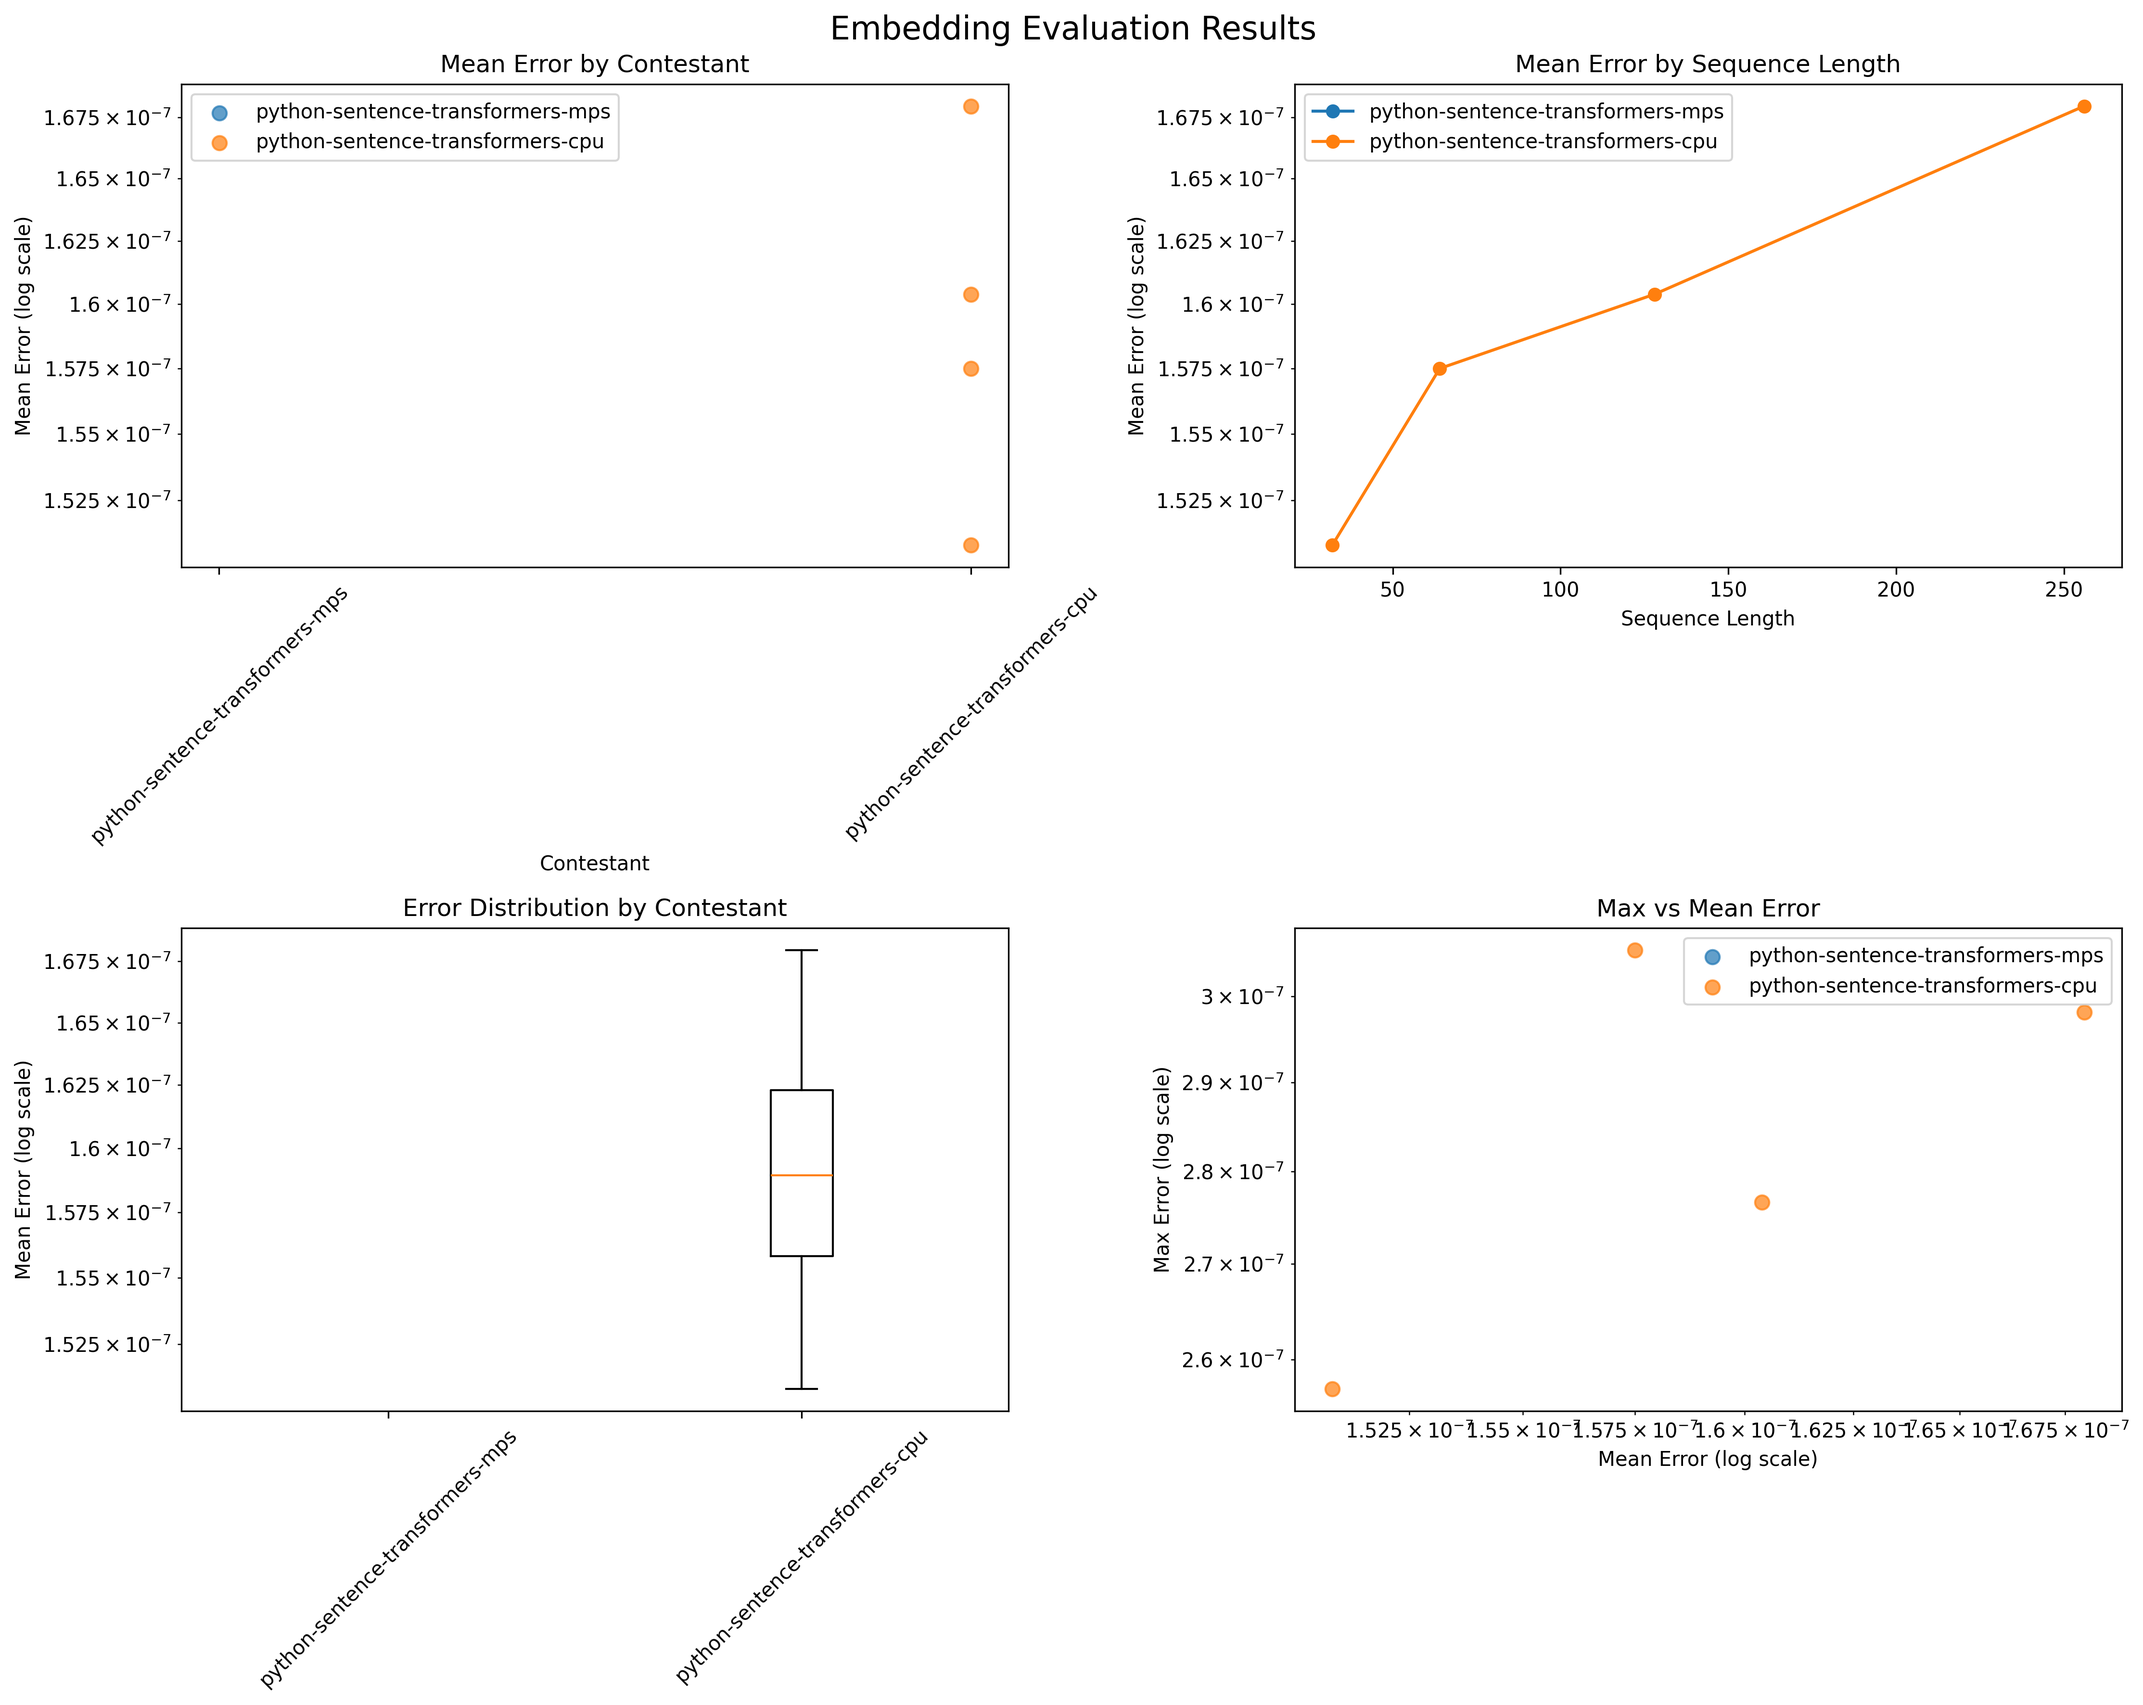
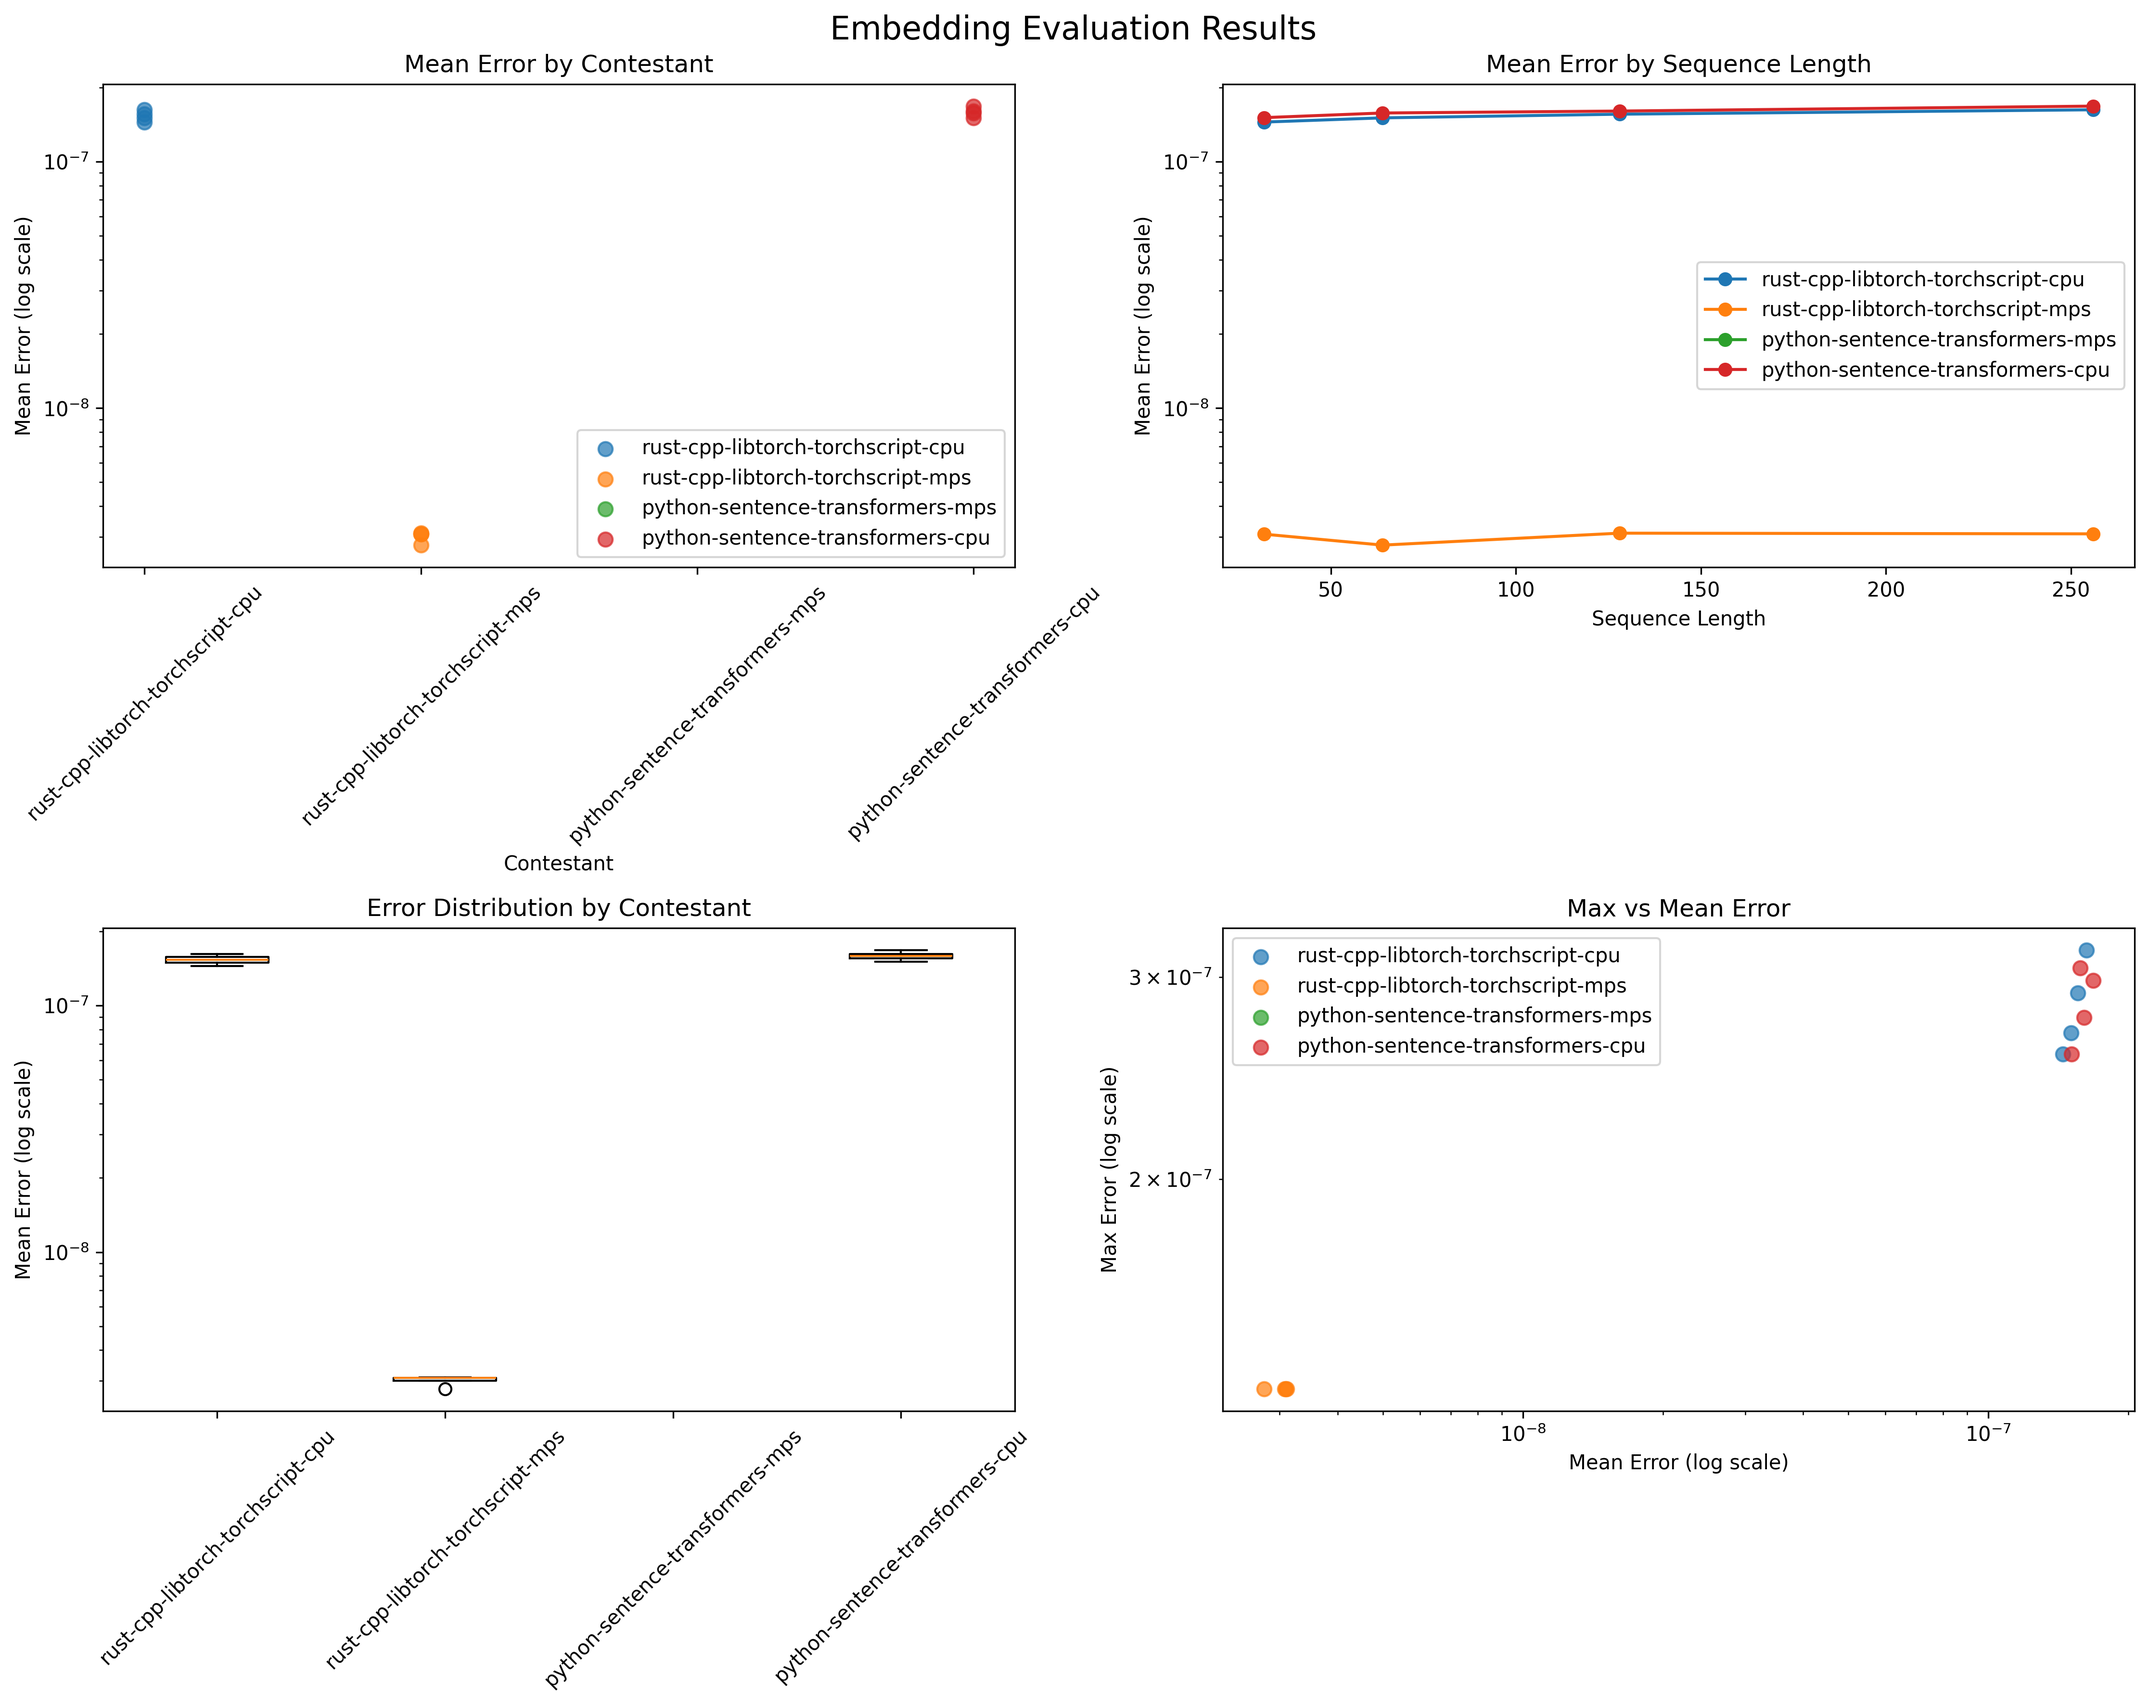
rust cpp version produces correct results

diff --git a/contestants/rust-cpp-libtorch-torchscript/src/main.rs b/contestants/rust-cpp-libtorch-torchscript/src/main.rs
@@ -2,9 +2,12 @@ use anyhow::{Error as E, Result};
 use clap::{Parser, ValueEnum};
 use serde::Deserialize;
 use std::ffi::CString;
+use std::fmt;
 use std::fs::{self, File};
 use std::io::{BufWriter, Write};
 use std::os::raw::{c_char, c_int, c_long};
+use std::path::{Path, PathBuf};
+use std::process::Command;
 
 unsafe extern "C" {
     fn embedder_load_model(model_path: *const c_char, use_mps: c_int) -> *mut std::ffi::c_void;
@@ -26,8 +29,8 @@ struct EmbedderModel {
 }
 
 impl EmbedderModel {
-    fn load(model_path: &str, device: Device, embedding_dim: usize) -> Result<Self> {
-        let c_path = CString::new(model_path).map_err(E::msg)?;
+    fn load(model_path: &Path, device: Device, embedding_dim: usize) -> Result<Self> {
+        let c_path = CString::new(model_path.to_string_lossy().as_ref()).map_err(E::msg)?;
 
         let use_mps = match device {
             Device::Mps => 1,
@@ -114,7 +117,7 @@ struct TokenBatch {
 }
 
 impl TokenBatch {
-    fn load(path: &str, max_length: usize) -> Result<Self> {
+    fn load(path: &Path, max_length: usize) -> Result<Self> {
         #[derive(Debug, Deserialize)]
         struct TokenizedInput {
             input_ids: Vec<Vec<i64>>,
@@ -141,6 +144,16 @@ impl TokenBatch {
             let mut input_ids = input.input_ids.into_iter().next().unwrap();
             let mut attention_masks = input.attention_mask.into_iter().next().unwrap();
 
+            if input_ids.len() > max_length {
+                input_ids.truncate(max_length - 1);
+                attention_masks.truncate(max_length - 1);
+
+                // Add [SEP] token since we truncated
+                // TODO this only works for BERT tokenizers
+                input_ids.push(102);
+                attention_masks.push(1);
+            }
+
             input_ids.resize(max_length, 0);
             attention_masks.resize(max_length, 0);
 
@@ -155,7 +168,7 @@ impl TokenBatch {
     }
 }
 
-fn write_embeddings(path: &str, embeddings: &[Vec<f32>]) -> Result<()> {
+fn write_embeddings(path: &Path, embeddings: &[Vec<f32>]) -> Result<()> {
     let file = File::create(path)?;
     let mut writer = BufWriter::new(file);
 
@@ -179,19 +192,22 @@ enum Device {
     Mps,
 }
 
+impl fmt::Display for Device {
+    fn fmt(&self, f: &mut fmt::Formatter<'_>) -> fmt::Result {
+        let name = self.to_possible_value().unwrap().get_name().to_string();
+        write!(f, "{}", name)
+    }
+}
+
 #[derive(Parser, Debug)]
 struct Args {
-    /// Path to TorchScript model
+    /// Model name
     #[arg(long)]
-    model_path: String,
-
-    /// Path to jsonl file of tokenized input
-    #[arg(short, long)]
-    input: String,
+    model: String,
 
     /// Truncate each tokenized input to this many tokens
     #[arg(short, long)]
-    max_length: usize,
+    max_seq_length: usize,
 
     /// Whether the model uses MPS. Traced TorchScript models are device-specific.
     #[arg(short, long)]
@@ -200,23 +216,56 @@ struct Args {
     /// The size of each output vector produced by this model
     #[arg(short, long)]
     embedding_dim: usize,
+}
 
-    /// Output embeddings to this file
-    #[arg(short, long)]
-    output_path: String,
+fn get_repo_root() -> PathBuf {
+    let repo_root = Command::new("git")
+        .args(&["rev-parse", "--show-toplevel"])
+        .output()
+        .unwrap()
+        .stdout;
+    PathBuf::from(String::from_utf8(repo_root).unwrap().trim())
+}
+
+fn get_output_path(args: &Args) -> PathBuf {
+    let output_path = format!(
+        "output/{}/{}/embeddings-{}.txt",
+        args.model, args.device, args.max_seq_length
+    );
+    let parent = std::path::Path::new(&output_path).parent().unwrap();
+    fs::create_dir_all(parent).unwrap();
+
+    PathBuf::from(output_path)
+}
+
+fn get_torchscript_model_path(args: &Args, repo_root: &Path) -> PathBuf {
+    repo_root.join(format!("torchscript-models/output/{}/model.pt", args.model))
+}
+
+fn get_input_tokens_path(args: &Args, repo_root: &Path) -> PathBuf {
+    repo_root.join(format!(
+        "data/reference-output/{}/tokenized.txt",
+        args.model
+    ))
 }
 
 fn main() -> Result<()> {
+    let repo_root = get_repo_root();
+
     let args = Args::parse();
+    let output_path = get_output_path(&args);
+    let input_tokens_path = get_input_tokens_path(&args, &repo_root);
+    let model_path = get_torchscript_model_path(&args, &repo_root);
+
     eprintln!("Loading model");
-    let model = EmbedderModel::load(&args.model_path, args.device, args.embedding_dim)?;
+    let model = EmbedderModel::load(&model_path, args.device, args.embedding_dim)?;
     eprintln!("Parsing input tokens");
-    let input = TokenBatch::load(&args.input, args.max_length)?;
+    let input = TokenBatch::load(&input_tokens_path, args.max_seq_length)?;
 
     eprintln!("Computing embeddings");
     let embeddings = model.embed_batch(&input.input_ids, &input.attention_mask)?;
     eprintln!("Writing embeddings to file");
-    write_embeddings(&args.output_path, &embeddings)?;
+    write_embeddings(&output_path, &embeddings)?;
     eprintln!("Done");
     Ok(())
 }
